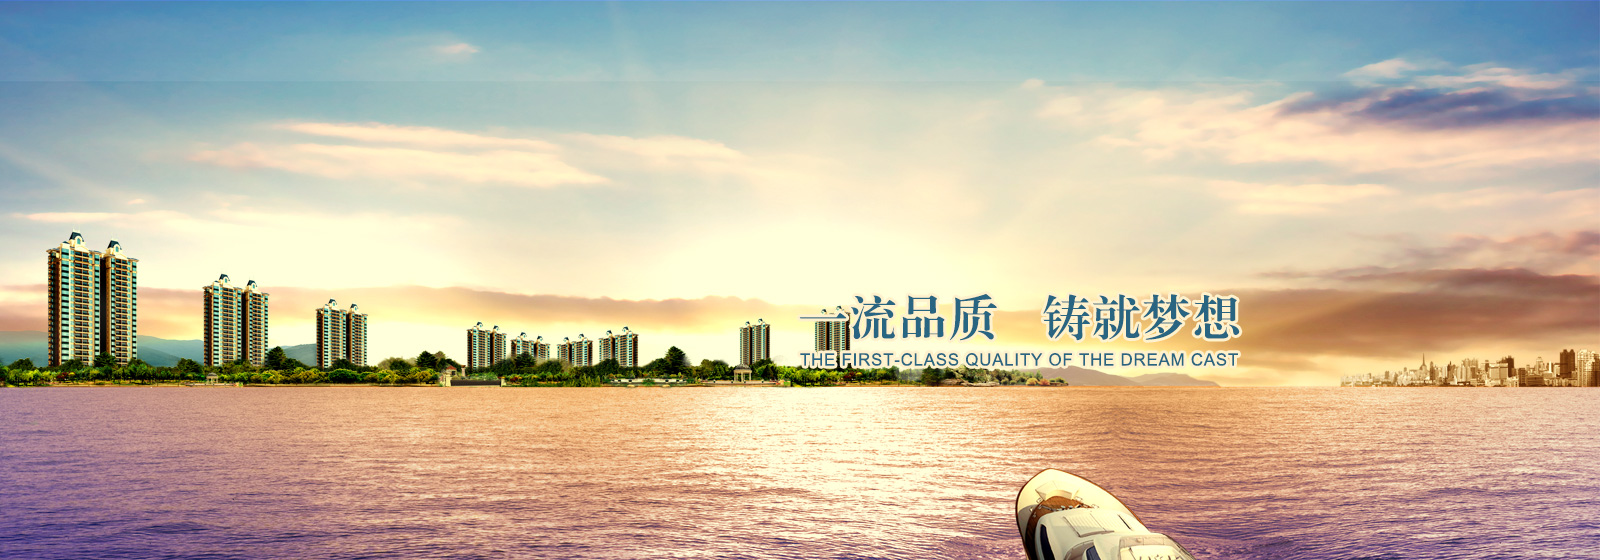
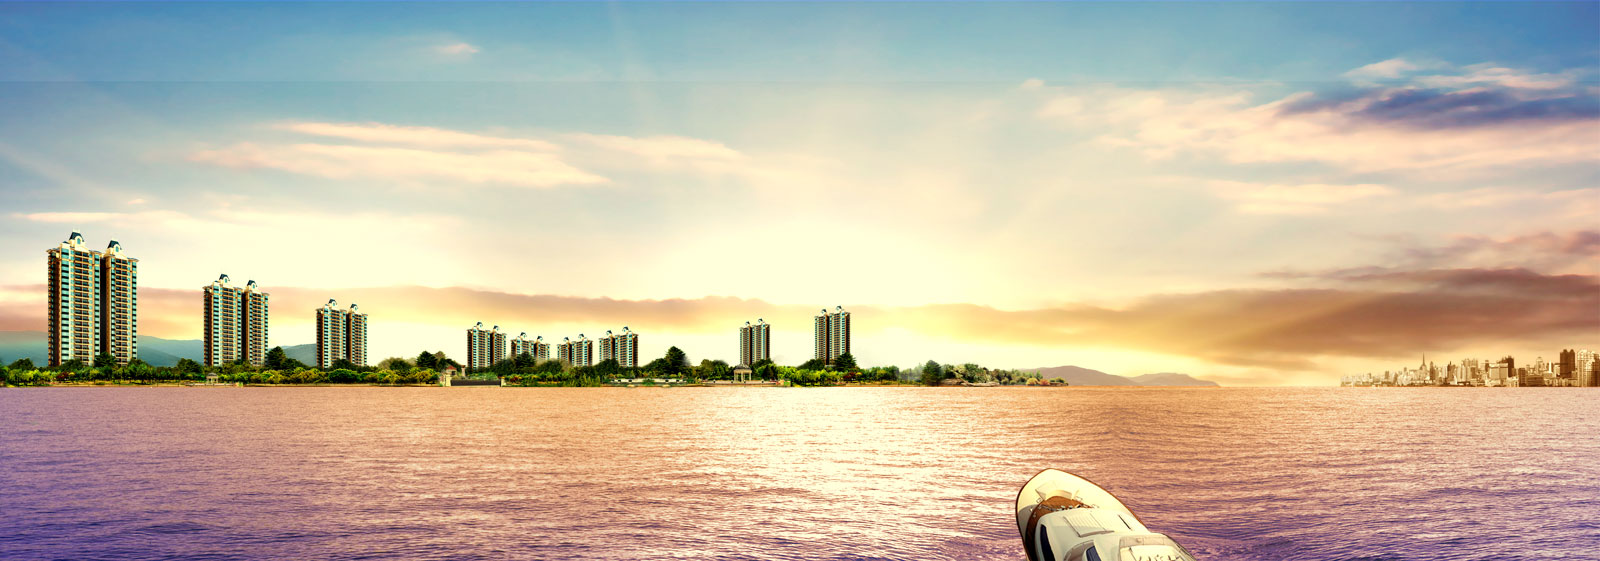
样式调整成红色

Changed region(s): [[0.0, 0.425, 1.0, 1.0], [0.8438, 0.6375, 1.0, 0.6982]]

diff --git a/src/main/webapp/style/css.css b/src/main/webapp/style/css.css
@@ -37,7 +37,9 @@ body{font: 12px/1.5 Tahoma,arial,"Hiragino Sans GB","microsoft yahei",宋体;}
 
 #bigPic li{ position:absolute; top:0; left:0; z-index:0; width:100%; text-align:center; display:inline-block; width:100%; height:560px;}
 
-#bigPic li img{ width:813px; height:560px;}
+#bigPic li div.con{ width:1002px; height:560px; margin:0 auto; position:relative;}
+
+#bigPic li div.con img{ position:absolute; opacity:0;}
 
 #litPic{ width:100%; text-align:center; height:30px; position:absolute; z-index:10; bottom:0;}
 
@@ -48,21 +50,21 @@ body{font: 12px/1.5 Tahoma,arial,"Hiragino Sans GB","microsoft yahei",宋体;}
 
 
 
-.nav{ height:100px; background-color:#ffffff;}
+.nav{ height:75px; background-color:#ffffff; font-family:"微软雅黑";}
 
-.nav li{ float:left; line-height:18px; width:108px;}
+.nav li{ float:left; line-height:14px; width:108px;}
 
-.nav li a{ display:inline-block; width:100%; height:68px; padding-top:32px; font-size:13px; color:#223c7f; text-align:center; position:relative;}
+.nav li a{ display:inline-block; width:100%; height:50px; padding-top:25px; font-size:13px; color:#ffffff; text-align:center; position:relative;}
 
-.nav li a.sel{ background-color:#1b9bd8; color:#ffffff;}
-.nav li a:hover{ background-color:#44b8ef; color:#ffffff;}
-.nav li a:hover em,.nav li a.sel em{color:#eeeeee;}
+.nav li a.sel{ background-color:#f7f7f7; color:#000000;}
+.nav li a:hover{ background-color:#f7f7f7; color:#000000;}
+.nav li a:hover em,.nav li a.sel em{color:#999999;}
 
-.nav li a i{ background:none; position:absolute; bottom:15px; left:50px; display:block; width:9px; height:7px;}
+.nav li a i{ background:none; position:absolute; bottom:8px; left:50px; display:block; width:9px; height:7px;}
 
 .nav li a.sel i{ background:url(../images/dot.png) no-repeat;}
 
-.nav li a em{ color:#6474a7; text-transform:uppercase; font-size:10px;}
+.nav li a em{ color:#dcadb3; text-transform:uppercase; font-size:11px;}
 
 
 .newsBox{ width:342px; float:left; margin-top:30px;}
@@ -71,17 +73,18 @@ body{font: 12px/1.5 Tahoma,arial,"Hiragino Sans GB","microsoft yahei",宋体;}
 
 .newsBox .tit a{ display:inline-block; height:40px; text-align:center; color:#333333; width:33%; border:1px solid #dce2e4; border-left:none; background-color:#f3f7f8; float:left;}
 
-.newsBox .tit a.sel{ border-top:3px solid #1b9bd8; border-bottom:none; height:37px; background-color:#ffffff;}
+.newsBox .tit a.sel{ border-top:3px solid #ca770a; border-bottom:none; height:37px; background-color:#ffffff;}
 
 .newsBox .con{ width:100%; display:inline-block; margin:15px 0; height:125px; overflow:hidden;}
-.newsBox .con li {background:url(../images/o_ico_02.jpg) no-repeat 0 10px; line-height: 25px; padding-left: 10px;}
-
+.newsBox .con li {background:url(../images/o_ico_02.jpg) no-repeat 0 10px; line-height: 25px; padding-left: 10px; font-family:"宋体";}
+.newsBox .con li a{ color:#666666;}
+.newsBox .con li a:hover{ color:#000000;}
 
 .aboutBox{ width:375px; float:left; margin-top:30px; margin-left:30px;}
 
 .aboutBox .tit{ width:100%; height:41px; text-align:center; border-bottom:1px solid #dce2e4; border-left:1px solid #dce2e4;}
 
-.aboutBox .tit a{ display:block; border-top:3px solid #1b9bd8; border-bottom:none; border-right:1px solid #dce2e4; height:40px; line-height:37px; background-color:#ffffff; width:105px; color:#333333; font-size:13px;}
+.aboutBox .tit a{ display:block; border-top:3px solid #ca770a; border-bottom:none; border-right:1px solid #dce2e4; height:40px; line-height:37px; background-color:#ffffff; width:105px; color:#333333; font-size:13px;}
 
 .aboutBox .con{ margin:15px 0;}
 
@@ -96,15 +99,15 @@ body{font: 12px/1.5 Tahoma,arial,"Hiragino Sans GB","microsoft yahei",宋体;}
 	text-indent:25px;
     display: block;
     line-height: 23px;
-    overflow: hidden; color:#333333;
+    overflow: hidden; color:#666666;
 }
 
 
 .yewBox{ width:200px; border:1px solid #e8eef0; margin-top:30px; padding:7px;}
 
-.yewBox a{ display:block; width:100%; text-align:center; height:40px; line-height:40px; margin:3px 0; background-color:#f5f5f5;}
+.yewBox a{ display:block; width:100%; text-align:center; height:40px; line-height:40px; margin:3px 0; background-color:#f5f5f5; color:#666666;}
 
-.yewBox a:hover, .yewBox a.sel{ background-color:#1b9bd8; color:#ffffff;}
+.yewBox a:hover, .yewBox a.sel{ background-color:#ca770a; color:#ffffff;}
 
 
 .md_pic{ background-color:#eff2f4; margin-top:30px;}
@@ -123,14 +126,14 @@ body{font: 12px/1.5 Tahoma,arial,"Hiragino Sans GB","microsoft yahei",宋体;}
 
 .md_pic li strong{ color:#f90000;}
 
-h3.tit{ float:left; color:#ffffff; font-weight:normal; height:35px; line-height:35px; padding:0 30px; background-color:#1b9bd8; margin-top:30px;}
+h3.tit{ float:left; color:#ffffff; font-weight:normal; height:35px; line-height:35px; padding:0 30px; background-color:#ca770a; margin-top:30px;}
 
 ul.box{ width:100%; float:left; margin:15px 0;}
 
 ul.box li{ float:left; margin:5px 50px 5px 0;}
 ul.box li.noMar{ margin-right:0;}
 
-.footerBg{ background-color:#1b9bd8; height:125px; font-family:"宋体"; line-height:28px; margin-top:15px;}
+.footerBg{ background-color:#777777; height:125px; font-family:"宋体"; line-height:28px; margin-top:15px;}
 
 .footLeft{ width:700px; color:#ffffff; margin-top:20px;}
 

diff --git a/src/main/webapp/style/info.css b/src/main/webapp/style/info.css
@@ -1,25 +1,25 @@
 
 
-.h360{ height:360px; border-bottom:5px solid #def0f8;}
+.h360{ height:360px; border-bottom:7px solid #efe5de;}
 
 .infoBigImg{ width:100%; height:360px; overflow:hidden;}
 
 .infoBigImg span{ display:block; width:100%; height:360px; background:url(../images/banner3.jpg) top center no-repeat;}
 
 
-.infoLeft{ width:200px; background-color:#1b9bd8; float:left;}
+.infoLeft{ width:200px; background-color:#f6d4c0; float:left;}
 
-.infoLeft h2{ width:100%; line-height:60px; color:#ffffff; font-weight:normal; font-size:24px; text-align:center; border-bottom:1px solid #00699b; background-color:#007ab4;}
+.infoLeft h2{ width:100%; line-height:60px; color:#ffffff; font-weight:normal; font-size:24px; text-align:center; border-bottom:1px solid #b20018; background-color:#be1027;}
 
-.infoLeft .list{ width:100%; text-align:center; border-top:1px solid #37afe8; padding:10px 0;}
+.infoLeft .list{ width:100%; text-align:center; border-top:1px solid #ffffff;}
 
-.infoLeft .list a{ display:block; line-height:35px; width:100%; color:#e8f1f5; position:relative;}
+.infoLeft .list a{ display:block; line-height:35px; width:100%; color:#333333; position:relative; border-bottom:1px solid #f7b993; border-top:1px solid #ffffff;}
 
-.infoLeft .list a:hover, .infoLeft .list a.sel{ color:#ffffff; background-color:#00699b;}
+.infoLeft .list a:hover, .infoLeft .list a.sel{ color:#ffffff; background-color:#e6681c;}
 
 .infoLeft .list a i{position:absolute; left:25px; top:14px; display:block; width: 0;height: 0;
 					border-top: 4px solid transparent;
-					border-left: 4px solid #00699b;
+					border-left: 4px solid #aa0017;
 					border-bottom: 4px solid transparent;}
 
 .infoLeft .list a:hover i, .infoLeft .list a.sel i{border-left: 4px solid #ffffff;}
@@ -42,7 +42,6 @@
 .infoRight .listCon{ width:760px; margin:15px 15px 15px 25px; font-family:"宋体"; color:#333333; line-height:25px;}
 
 .infoRight .listCon ul{}
-
 
 .infoRight .listCon ul li {
     border-bottom: 1px dashed #e0e0e0;
@@ -87,7 +86,7 @@
 }
 
 .page a:hover, .page .current {
-    background-color:#00699b;
-    border: 1px solid #00699b;
+    background-color:#ca770a;
+    border: 1px solid #ca770a;
     color: #fff;
 }

diff --git a/src/main/webapp/js/jquery.nivo.slider.pack.js b/src/main/webapp/js/jquery.nivo.slider.pack.js
@@ -15,6 +15,51 @@ $(function(){
 	}
 	
 	
+	function textSlide(a){
+		 
+		 bigImg.eq(a).find("img").css({"opacity":"0"}); 
+		 textS1L(a);
+	}
+	
+	function textS1L(a){
+		
+		bigImg.eq(a).find("img.adT1").css({"left":"0","top":"300px"});//初始位置
+		bigImg.eq(a).find("img.adT2").css({"right":"0","top":"315px"});//初始位置
+		bigImg.eq(a).find("img.adT3").css({"right":"20px","bottom":"20px"});//初始位置
+		
+		bigImg.eq(a).find("img.adT1").animate({
+			left:'480px',       //adT1最终位置
+			opacity:'1'
+		},470,function(){textS3B(a)});
+		
+	}
+	
+	function textS2R(a){
+		
+		bigImg.eq(a).find("img.adT2").animate({
+			opacity:'1' //adT2最终位置  和透明度
+		},1000);
+		
+	}
+	
+	function textS3B(a){
+		
+		bigImg.eq(a).find("img.adT3").animate({
+			right:'150px',
+			bottom:'168px', //adT3最终位置  和透明度
+			opacity:'1'
+		},700,function(){textS2R(a)});
+		
+	}
+	
+	textSlide(0);
+	
+	
+	
+	
+	
+	
+	
 	var i = 0;
 	function show(){
 		
@@ -30,6 +75,7 @@ $(function(){
 			bigImg.eq(i+1).css("z-index","1");
 			bigImg.eq(i+1).fadeIn("slow");
 			litImg.eq(i+1).addClass("s");
+			textSlide(i+1);
 			i++;
 			
 		}else{
@@ -37,6 +83,7 @@ $(function(){
 			bigImg.eq(0).css("z-index","1");
 			bigImg.eq(0).fadeIn("slow");
 			litImg.eq(0).addClass("s");
+			textSlide(0);
 			i = 0;
 			
 		}
@@ -90,6 +137,8 @@ $(function(){
 							
 							bigImg.eq(index).fadeIn("slow");
 							bigImg.eq(index).css("z-index","1");
+							
+							textSlide(index);
 							
 							i = index;
 							

diff --git a/src/main/java/com/youwei/jjfc/admin/UserService.java b/src/main/java/com/youwei/jjfc/admin/UserService.java
@@ -33,7 +33,7 @@ public class UserService {
 	public ModelAndView logout(){
 		ModelAndView mv = new ModelAndView();
 		ThreadSession.getHttpSession().removeAttribute("user");
-		mv.redirect="/admin/public/login.jsp";
+		mv.redirect="../public/login.jsp";
 		return mv;
 	}
 	
